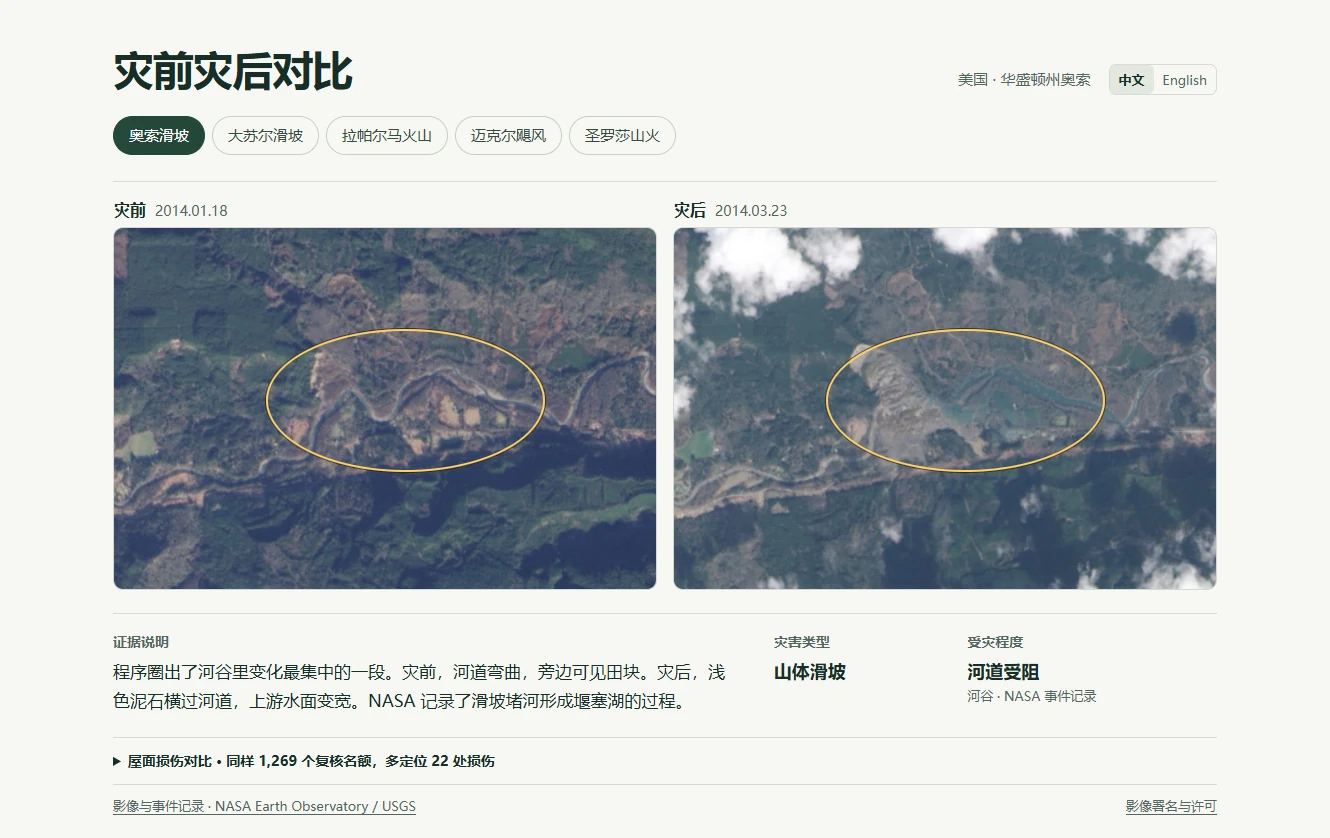
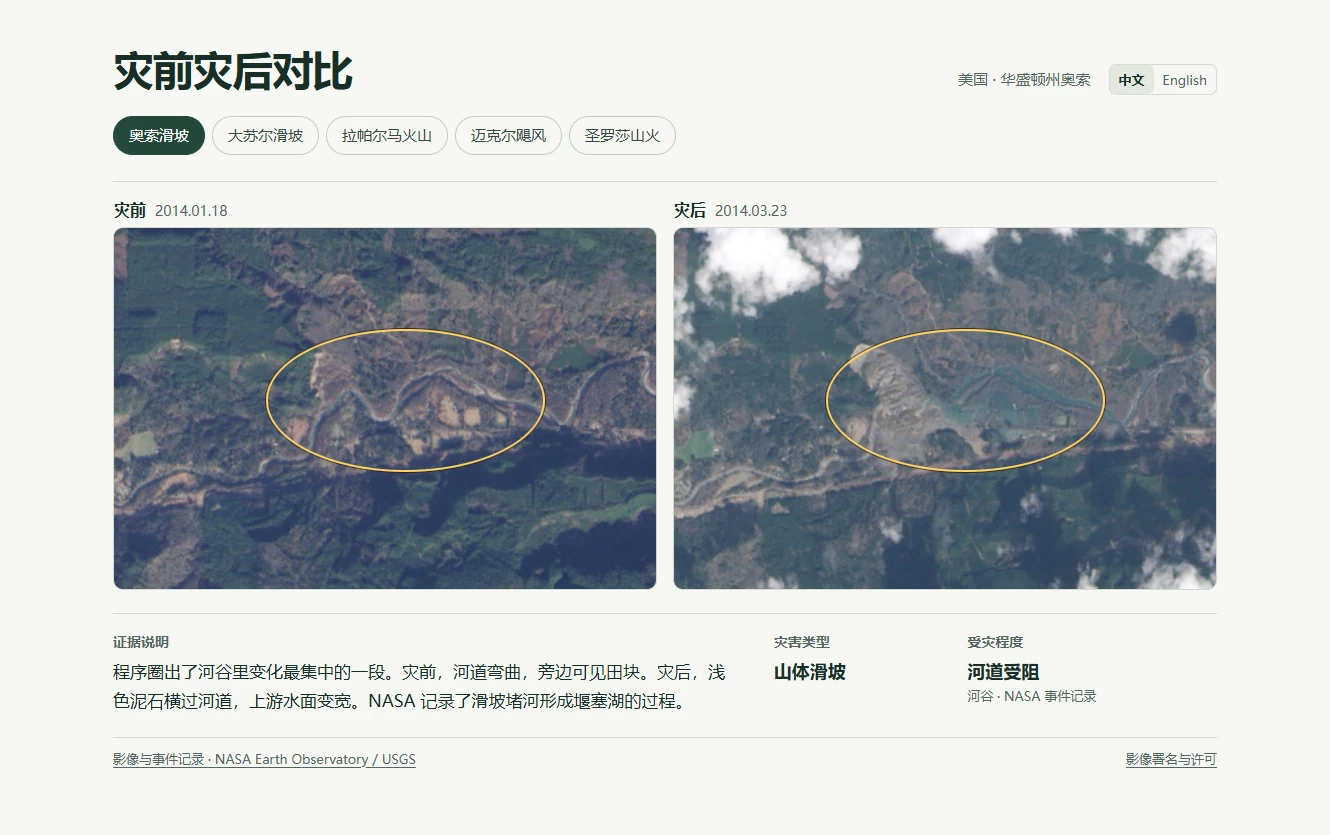
Remove the roof benchmark section from the gallery and README

diff --git a/docs/index.html b/docs/index.html
@@ -44,11 +44,6 @@
           <div><dt data-en="Impact">受灾程度</dt><dd id="severity"></dd><dd id="basis"></dd></div>
         </dl>
       </div>
-      <details id="baseline-comparison" class="roof-results">
-        <summary data-en="Roof damage benchmark · 22 more matches from the same 1,269 candidates">屋面损伤对比 · 同样 1,269 个复核名额，多定位 22 处损伤</summary>
-        <p data-en="Across five sites, combining model outlines raised matches from 501 to 523 and cut false positives from 768 to 746. We kept every baseline match and recovered 13 more patches of exposed decking and 9 more roof holes.">在五个测区，合并多组模型的预测轮廓后，命中从 501 处增至 523 处，误报从 768 处降至 746 处。原有命中全部保留，另找回 13 处屋面板外露和 9 处孔洞。</p>
-        <p><span data-en="On one roof in Ebenezer, the baseline outlined only part of the exposed decking. A more complete outline raised the best overlap with the human reference (IoU) from 0.328 to 0.879.">以 Ebenezer 的一栋建筑为例，基线只圈出部分外露屋面板。我们选出更完整的轮廓后，与人工标注的最佳重合度（IoU）从 0.328 升至 0.879。</span> <a href="assets/ebenezer-fid39.png" data-en="Compare the image (left), baseline (center) and selected outline (right)">查看航拍、基线和当前轮廓对照图</a></p>
-      </details>
       <footer><a id="source" href="DATA-NOTICE.md"></a><a id="credits" href="DATA-NOTICE.md" data-en="Image credits and licenses">影像署名与许可</a></footer>
     </article>
     <noscript>请在浏览器中启用 JavaScript，查看灾前灾后案例。 <span lang="en">Enable JavaScript to compare the images.</span></noscript>

diff --git a/docs/assets/workspace.js b/docs/assets/workspace.js
@@ -38,7 +38,7 @@ function viewLink(id, lang, phase) {
 function setLanguageLinks(record, phase) {
   for (const link of byId("languages").children) {
     const lang = link.lang === "en" ? "en" : "zh";
-    link.href = viewLink(record.id, lang, phase) + (!phase && byId("baseline-comparison").open ? "#baseline-comparison" : "");
+    link.href = viewLink(record.id, lang, phase);
     link.setAttribute("aria-current", String(lang === language));
   }
 }
@@ -98,12 +98,6 @@ if (selected && (phase === "before" || phase === "after")) {
   document.querySelector("main").replaceChildren(figure);
   document.title = caseText(selected).name + " · " + figure.querySelector("strong").textContent;
 } else {
-  const benchmark = byId("baseline-comparison");
-  benchmark.open = location.hash === "#baseline-comparison";
-  benchmark.addEventListener("toggle", () => {
-    const pressed = buttons.querySelector('[aria-pressed="true"]');
-    if (pressed) setLanguageLinks(GALLERY.find(record => record.id === pressed.value));
-  });
   for (const record of GALLERY) {
     const button = document.createElement("button");
     button.type = "button";

diff --git a/docs/assets/style.css b/docs/assets/style.css
@@ -59,10 +59,6 @@ h2, dt { color: var(--muted); font-size: 14px; line-height: 1.5; font-weight: 55
 .finding { display: grid; grid-template-columns: .82fr 1.18fr; gap: 10px 20px; }
 .finding dd { font-size: 18px; font-weight: 650; margin-top: 6px; line-height: 1.45; }
 .finding #basis { color: var(--muted); font-size: 13px; font-weight: 400; margin-top: 3px; }
-.roof-results { padding: 12px 0; border-top: 1px solid var(--line); font-size: 14px; line-height: 1.6; }
-.roof-results summary { cursor: pointer; font-weight: 600; }
-.roof-results p { max-width: 78ch; margin-top: 8px; }
-.roof-results a { color: inherit; text-underline-offset: 3px; }
 footer { border-top: 1px solid var(--line); padding-top: 12px; display: flex; flex-wrap: wrap; gap: 7px 18px; justify-content: space-between; }
 footer a { color: var(--muted); font-size: 13px; text-decoration: underline; text-underline-offset: 3px; }
 @media (max-width: 740px) {

diff --git a/README.en.md b/README.en.md
@@ -31,8 +31,4 @@ The script writes one line per building to `observations.jsonl`. The `explanatio
 | [Assess individual buildings](modules/buildings/README.md) | Measure damage area within a building footprint. Qwen3-VL estimates a whole-building grade. In a separate test, 14 of 40 grades matched xBD labels and 7 buildings were left ungraded. |
 | [Explain local changes](modules/observations/README.md) | Compare color and brightness on the same roof across two dates. Return a description with its location in both images. Qwen3-VL can also check the observations. |
 
-## How roof damage selection improves on the baseline
-
-Across five sites, each method returned 1,269 candidates for review. We ranked outlines by their shape and agreement across models. This kept all 501 baseline matches and recovered 13 more patches of exposed decking and 9 more roof holes. Correct matches rose from **501 to 523**, and false positives fell from **768 to 746**. These counts measure individual roof damage features. [Open the comparison in the demo](https://zbw9654250-cmyk.github.io/disaster-change-review/?lang=en#baseline-comparison) · [Results by site](results/roof_objects.json)
-
 The project code uses the [MIT license](LICENSE). Images and models have their own terms. The xBD image crops require attribution, noncommercial use and sharing under the same license. [Data and model notices (Chinese)](NOTICE.md)

diff --git a/README.md b/README.md
@@ -31,8 +31,4 @@ python modules/observations/run_roofs.py --cases data/xbd/confirm/cases.jsonl --
 | [按栋评估损伤](modules/buildings/README.md) | 用灾后航片和建筑轮廓统计损伤面积。Qwen3-VL 的整栋初评在 40 栋中有 14 栋与 xBD 标注一致，7 栋待判。 |
 | [解释局部变化](modules/observations/README.md) | 比较同一屋面在两期影像里的颜色和亮度，给出说明和对应区域，可用 Qwen3-VL 核对。 |
 
-## 屋面损伤筛选比基线好在哪
-
-在 5 个测区，两种方法都提交了 1,269 处供人工复核。我们按轮廓形状和不同模型之间的重合程度挑选候选，保留了原模型找对的全部 501 处，又找回 13 处屋面板外露和 9 处孔洞。命中从 **501 增至 523**，误报从 **768 降至 746**。这些数字按屋面上的损伤区域统计。[查看演示中的对照](https://zbw9654250-cmyk.github.io/disaster-change-review/?lang=zh#baseline-comparison) · [逐测区评测](results/roof_objects.json)
-
 项目代码采用 [MIT 许可](LICENSE)。公开影像和模型各有使用条件，xBD 派生影像限非商业使用并要求署名、以相同方式共享。[数据和模型许可](NOTICE.md)
